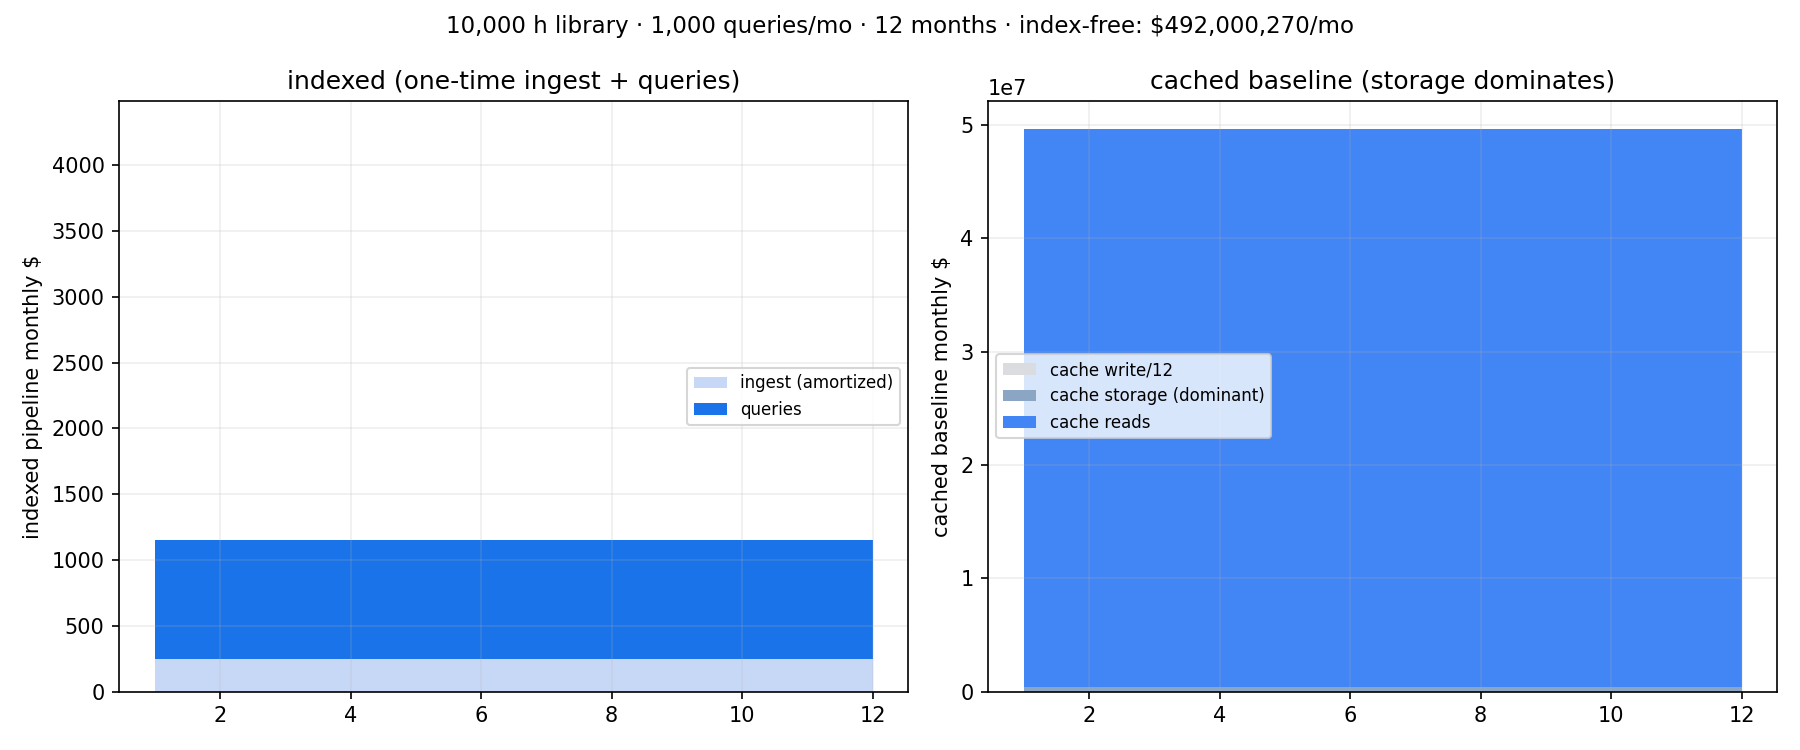
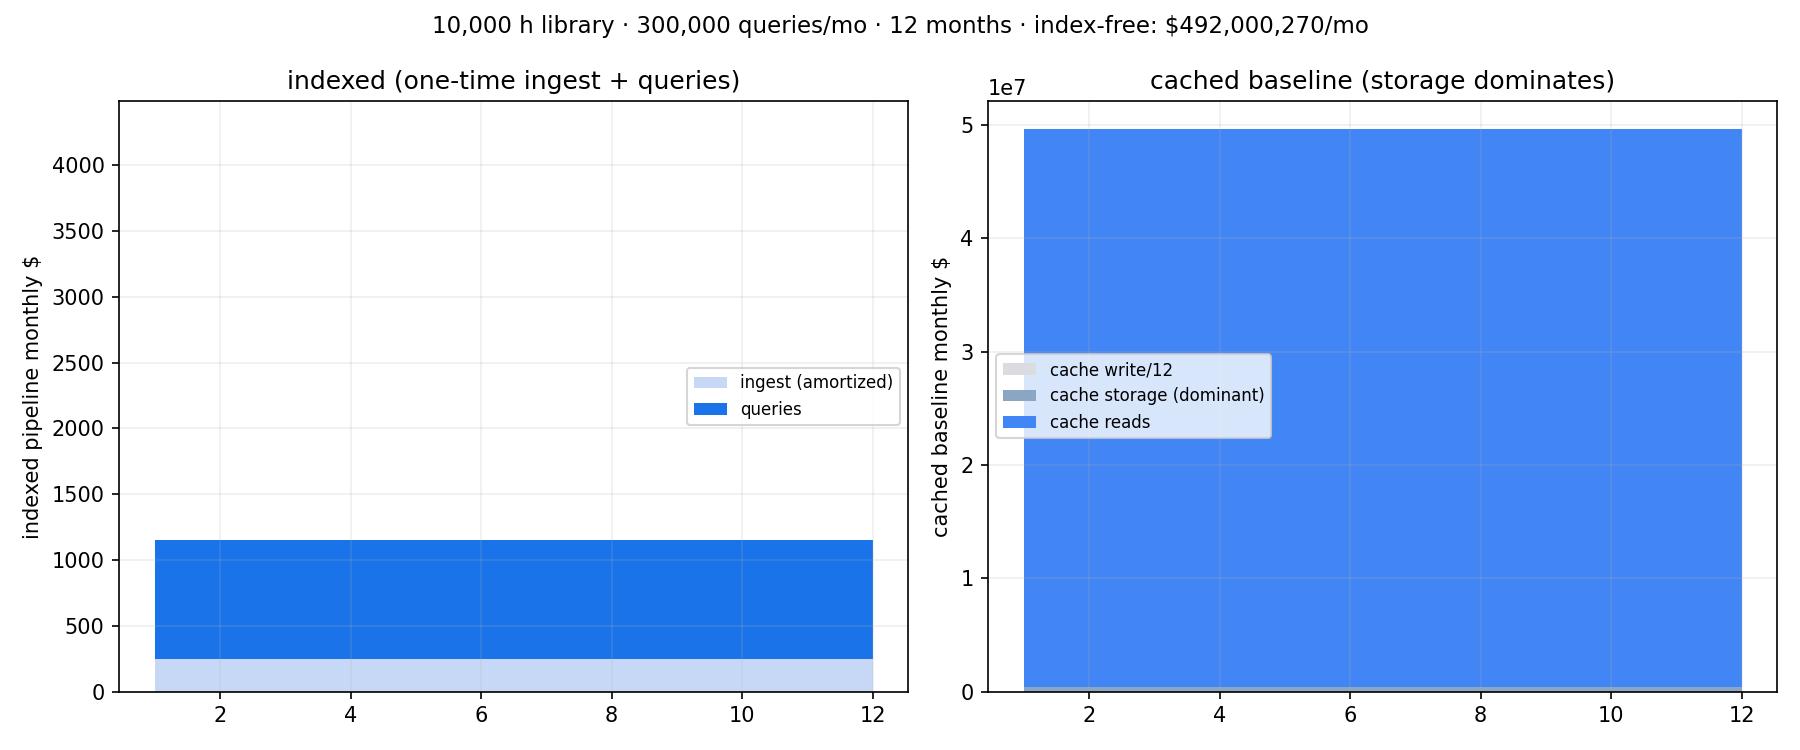
agentic-video: system-volume framing (MAM/CCTV), storage-modeled cached baseline

Changed region(s): [[0.2489, 0.0, 0.7467, 0.0613]]

diff --git a/agentic-video/cost-model/build_nb.py b/agentic-video/cost-model/build_nb.py
@@ -11,10 +11,12 @@ md("""# Indexed vs index-free video question answering — a cost model at libra
 **agentic.video + Jev** · Pixel ML · numbers as of **2026-09-17**
 
 TL;DR
-- An index-free agentic baseline (send the whole video to a video-LM per query) re-bills ~328k media tokens **per video-hour, per query**. At 1,000 library-wide queries/month over a 1,000-hour library that is **~$164k/month**.
-- An indexed pipeline (one-time ingest, then retrieval + a judged answer) pays **~$300 one-time per 1,000 hours** and **~$0.003 per query, flat** — ~$303/month all-in. Marginal cost per query is **~2–3 orders of magnitude lower** and does not grow with library size.
-- Against a context-cached baseline the **marginal** gap is ~5,500× (cache reads vs indexed query); all-in for a first month (cache write + **storage held continuously** + reads vs amortized ingest + queries) it is **~54×**. Storage is the cache's dominant term — we model it explicitly.
+- An index-free agentic baseline (send the whole video to a video-LM per query) re-bills ~328k media tokens **per video-hour, per query**. At 300k library-wide queries/month over a 1,000-hour library that is **~$49M/month**.
+- An indexed pipeline (one-time ingest, then retrieval + a judged answer) pays **~$300 one-time per 1,000 hours** and **~$0.003 per query, flat** — ~$1,200/month all-in at that volume. Marginal cost per query is **~2–3 orders of magnitude lower** and does not grow with library size.
+- Against a context-cached baseline the **marginal** gap is ~5,500× (cache reads vs indexed query); all-in for a month (cache write + **storage held continuously** + reads vs amortized ingest + queries) it is **~4,000×** at 1k hours and **grows with library size**. Storage is the cache's dominant term — we model it explicitly.
 - Accuracy on our small public benchmarks is **a tie or a Gemini win** (n too small for claims); the honest finding is *compute placement*, not quality: **one-time indexing vs per-query video tokens**.
+
+**Who queries an indexed library at volume?** A MAM: 50 editors × 200 searches/day ≈ 300k queries/month. A CCTV/monitoring deployment: agents scraping the index continuously. App backends answering "find the moment" for end users. At these volumes the per-query billing model — not the one-time ingest — decides feasibility.
 
 Every number carries a provenance label: **MEASURED** (real runs, receipts in [`receipts/`](receipts/measured-2026-09-17.json)), **INTERPOLATED**, **PROJECTED**. Vendor prices are list, as of 2026-09-17, and will change.
 """)
@@ -43,7 +45,7 @@ GEM_CACHE_STORE = 0.175               # $/M tokens per hour held (flash tier)
 TOK_PER_VIDEO_HOUR = 328_000          # MEASURED (409,581 tok / 75 min -> 327,665; round)
 OUT_PER_QUERY = 300                   # output+thought tokens per answer (MEASURED 66-2,131 across receipts)
 VIDEO_HOURS = [1_000, 10_000, 100_000]
-QUERIES_PER_MONTH = 300_000           # system volume: MAM editorial search + CCTV agent scraping (~10k queries/day)
+QUERIES_PER_MONTH = 300_000           # system volume: MAM editorial search + CCTV agent scraping (~10k/day)
 HOLD_HOURS_PER_MONTH = 730            # cache held continuously
 
 INGEST_PER_VH = 0.30                  # INTERPOLATED — pending vendor figure
@@ -68,12 +70,11 @@ def cached_storage_per_month(video_hours):
 def indexed_per_query():
     return INDEXED_PER_QUERY
 
-print(f"index-free  per query @1k h : ${index_free_cost_per_query(1000):,.2f}")
-print(f"cached read per query @1k h : ${cached_read_per_query(1000):,.2f}")
-print(f"cached storage /mo    @1k h : ${cached_storage_per_month(1000):,.0f}")
-print(f"cached all-in /mo     @1k h : ${cached_write_one_time(1000)/12 + cached_storage_per_month(1000) + 1000*cached_read_per_query(1000):,.0f}")
-print(f"indexed     per query       : ${indexed_per_query():.4f}")
-print(f"indexed all-in /mo    @1k h : ${INGEST_PER_VH*1000/12 + 1000*indexed_per_query():,.2f} (amortized) or ${INGEST_PER_VH*1000 + 1000*indexed_per_query():,.0f} month-1")""")
+h0 = 1_000
+print(f"index-free  per query @1k h : ${index_free_cost_per_query(h0):,.2f}")
+print(f"cached read per query @1k h : ${cached_read_per_query(h0):,.2f}")
+print(f"cached storage /mo    @1k h : ${cached_storage_per_month(h0):,.0f}")
+print(f"indexed     per query       : ${indexed_per_query():.4f}")""")
 
 md("### 1. Cost per query vs library size (log–log)")
 code("""H = np.logspace(0, 5.3, 120)
@@ -83,7 +84,6 @@ fig, ax = plt.subplots(figsize=(9,5.5))
 ax.plot(H, free_q, label="index-free baseline (video tokens per query)", lw=2)
 ax.plot(H, cache_q, label="cached baseline (read + output)", lw=2)
 ax.axhline(indexed_per_query(), color="#1A73E8", lw=2, label="indexed pipeline (MEASURED, flat)")
-ax.fill_between(H, [indexed_per_query()]*len(H), cache_q, alpha=0.08, color="#1A73E8")
 ax.fill_between(H, [index_free_cost_per_query(h,0.7) for h in H], [index_free_cost_per_query(h,1.3) for h in H], alpha=0.15, color="grey", label="±30% price band (index-free)")
 ax.set_xscale("log"); ax.set_yscale("log")
 ax.set_xlabel("library size (video-hours)"); ax.set_ylabel("cost per library-wide query ($)")
@@ -95,7 +95,7 @@ print("chart 1 saved")""")
 md("The indexed line is flat: per-query cost does not grow with library size. Both baselines scale linearly with hours (the cached one is ~10× cheaper than naive at any size but still grows). Storage changes the *fixed* side, not this chart — chart 3 shows it.")
 
 md("### 2. Monthly cost vs query volume — the system-scale question")
-md("**Who queries an indexed library at volume?** A MAM: 50 editors x 200 searches/day = 300k queries/month. A CCTV/monitoring deployment: agents scraping the index continuously. App backends answering 'find the moment' for end users. At these volumes the per-query billing model - not the one-time ingest - decides feasibility.")
+md("**Who queries an indexed library at volume?** A MAM: 50 editors × 200 searches/day ≈ 300k queries/month. A CCTV/monitoring deployment: agents scraping the index continuously. App backends answering 'find the moment' for end users. At these volumes the per-query billing model — not the one-time ingest — decides feasibility.")
 code("""Q = np.logspace(0, 6, 200)
 fig, ax = plt.subplots(figsize=(9,5.5))
 colors = {1000:"#4285F4", 10000:"#34A853", 100000:"#FBBC04"}
@@ -122,7 +122,7 @@ print("chart 2 saved")""")
 
 md("Read: the indexed line sits **below every baseline at essentially all volumes** for library-wide queries — the one-time ingest breaks even after ~2 queries against the index-free baseline. The cached baseline's monthly **storage floor** (chart 3) is what keeps it above.")
 
-md("### 3. Where the money goes at 1,000 queries/month")
+md("### 3. Where the money goes at 300,000 queries/month")
 code("""fig, ax = plt.subplots(figsize=(9,5.5))
 W = 0.28
 xs = np.arange(len(VIDEO_HOURS))
@@ -147,16 +147,17 @@ ax.set_xticks(xs); ax.set_xticklabels([f"{h:,} h" for h in VIDEO_HOURS])
 ax.set_ylabel("monthly cost ($, log)"); ax.set_title(f"Monthly cost at {QUERIES_PER_MONTH:,} library-wide queries/month")
 ax.legend(fontsize=8.5); ax.grid(axis="y", alpha=0.25)
 fig.tight_layout(); fig.savefig("charts/monthly-by-scale.png", dpi=150); plt.close(fig)
-print("chart 3 saved")
 
-h = 10_000; q = 300_000
+h = 10_000; q = QUERIES_PER_MONTH
 free = q * index_free_cost_per_query(h)
 cch = q * cached_read_per_query(h) + cached_storage_per_month(h) + cached_write_one_time(h)
 idx = q * indexed_per_query() + INGEST_PER_VH * h
-print(f"300k queries/mo on a {h:,} h library:")
+print(f"{q:,} queries/mo on a {h:,} h library:")
 print(f"  index-free scan : ${free:,.0f}/mo")
-print(f"  cached baseline : ${cch:,.0f}/mo")
+print(f"  cached baseline : ${cch:,.0f}/mo (reads ${q*cached_read_per_query(h):,.0f} + storage ${cs:,.0f} + write ${cw:,.0f})")
 print(f"  indexed pipeline: ${idx:,.0f}/mo  ->  {cch/idx:,.0f}x cheaper than cached, {free/idx:,.0f}x than scan")""")
+
+md("Read: at system volumes the cached baseline's **storage** joins its **reads** above the indexed line by orders of magnitude — and the index-free scan is not merely expensive but operationally infeasible (one video-LM call per query per video, at 300k queries/month).")
 
 md("### 4. 12-month view on a 10,000-hour library (indexed left · cached right)")
 code("""h = 10_000
@@ -174,7 +175,7 @@ ax2.stackplot(months, np.full(12,cw), np.full(12,cs), np.full(12,cr),
 ax2.set_ylabel("cached baseline monthly $"); ax2.set_title("cached baseline (storage dominates)")
 ax2.legend(fontsize=8, loc="center left"); ax2.grid(alpha=0.2)
 free_line = QUERIES_PER_MONTH*index_free_cost_per_query(h)
-fig.suptitle(f"10,000 h library · 1,000 queries/mo · 12 months · index-free: ${free_line:,.0f}/mo", fontsize=11)
+fig.suptitle(f"10,000 h library · {QUERIES_PER_MONTH:,} queries/mo · 12 months · index-free: ${free_line:,.0f}/mo", fontsize=11)
 fig.tight_layout(); fig.savefig("charts/12mo-10kh.png", dpi=150); plt.close(fig)
 print("chart 4 saved")""")
 
@@ -199,9 +200,14 @@ ax.set_xscale("log"); ax.set_xlabel("cost per query ($)"); ax.set_ylabel("accura
 ax.set_title("Accuracy vs cost by stratum · 11-min video · n too small for significance")
 ax.grid(alpha=0.25)
 fig.tight_layout(); fig.savefig("charts/accuracy-vs-cost.png", dpi=150); plt.close(fig)
-print("chart 5 saved")
+print("chart 5 saved")""")
 
-md(\"\"\"**Statistics note.** Pooled over repeats (n=90 indexed / n=50 gemini): overall 95% CIs are [46.8, 67.3] vs [68.9, 86.2] — non-overlapping (z≈3.05) **if repeats are treated as independent**, which overstates confidence (the same 30 questions repeat 3×). At question level (n=30) the gap is ≈1.8 SE — not significant. Parliament n=8 is a tie. Treat accuracy as: parity on transcript-heavy questions; structural deficit on visual-only; overall ranking unresolved at this sample size.\"\"\")""")
+stats = ("**Statistics note.** Pooled over repeats (n=90 indexed / n=50 gemini): overall 95% CIs are "
+         "[46.8, 67.3] vs [68.9, 86.2] — non-overlapping (z≈3.05) **if repeats are treated as independent**, "
+         "which overstates confidence (the same 30 questions repeat 3×). At question level (n=30) the gap is "
+         "≈1.8 SE — not significant. Parliament n=8 is a tie. Treat accuracy as: parity on transcript-heavy "
+         "questions; structural deficit on visual-only; overall ranking unresolved at this sample size.")
+cells.append(nbf.v4.new_markdown_cell(stats))
 
 md("""### 6. Latency (MEASURED p50; p95 not measured)
 
